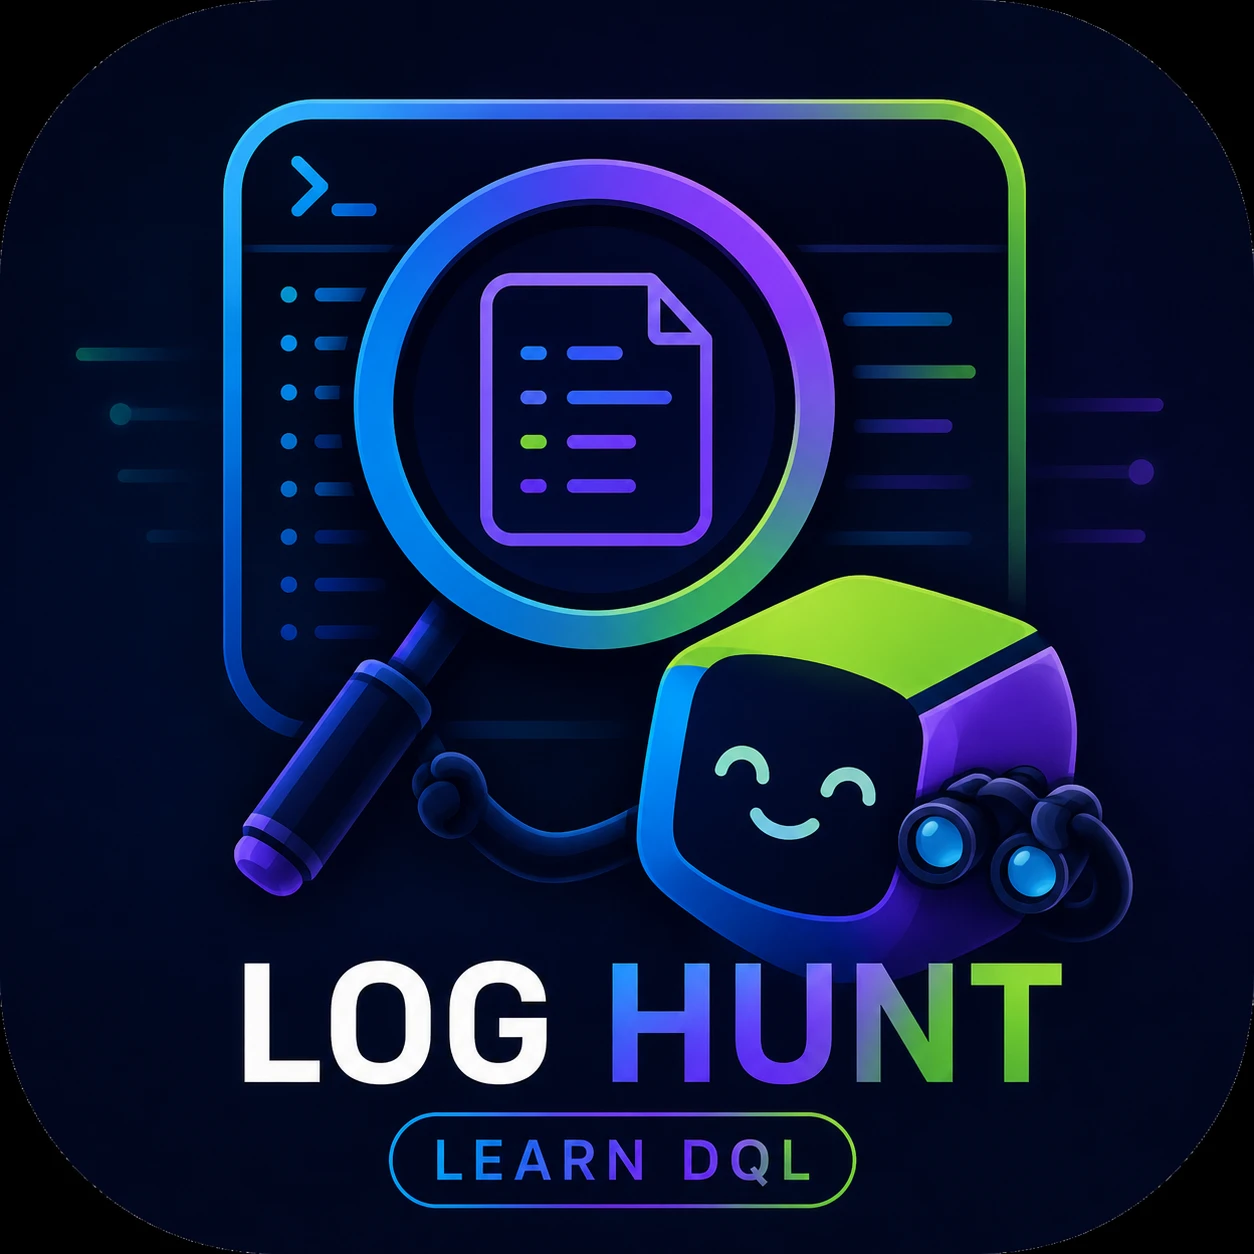
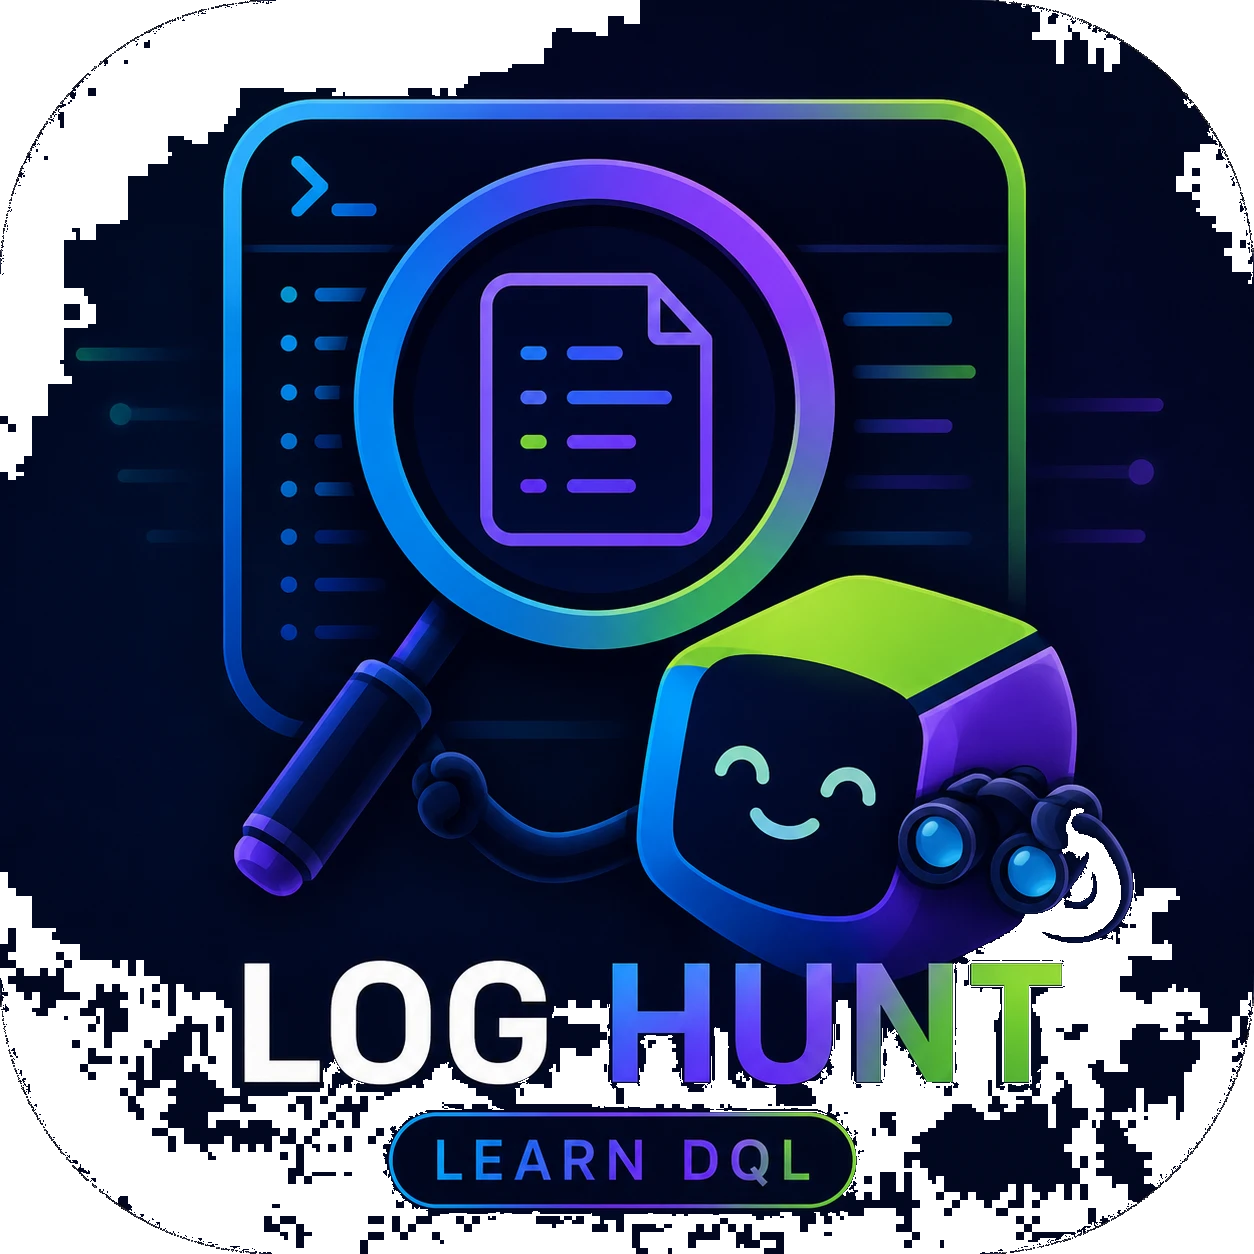
Fix homepage card images and layout polish
- Asset paths were absolute (/assets/...) which 404s under the dt-app
  serving sub-path; switched to relative ./assets/... matching the
  existing Dynatrace_Logo.svg convention
- Flood-filled the flat white/black corners of the three card images
  to transparency so they blend with the dark theme, and display them
  contain (uncropped) over the gradient backdrop
- Chip children rendered as multiple flex-gapped text nodes producing
  "2 lesson s completed"; collapsed all count chips to single strings
- Equal-height cards: Surfaces stretch to grid row height and each
  card's CTA is pinned to the bottom so the three buttons align

https://claude.ai/code/session_01MA3cxoJcrQHQ3axKASv3PV

Changed region(s): [[0.0, 0.6531, 1.0, 1.0], [0.0, 0.0, 0.5287, 0.4043], [0.8086, 0.0, 1.0, 0.2488]]

diff --git a/learn-dql/ui/app/pages/Home.tsx b/learn-dql/ui/app/pages/Home.tsx
@@ -13,14 +13,11 @@ import { ALL_SCENARIOS } from "../lib/dql";
 import { getProgress } from "../lib/progress";
 import { logHuntScenarios } from "../lib/dql/log-hunt-scenarios";
 
-// ─── Card image URLs (place the provided PNGs in learn-dql/ui/assets/) ──────
-// learn-dql/ui/assets/home-learn-dql.png  → the Dynatrace Learn DQL logo
-// learn-dql/ui/assets/home-sandbox.png    → the Sandbox illustration
-// learn-dql/ui/assets/home-log-hunt.png   → the Log Hunt robot illustration
-// When an image is missing the CSS gradient fallback is used automatically.
-const IMG_LEARN    = "/assets/home-learn-dql.png";
-const IMG_SANDBOX  = "/assets/home-sandbox.png";
-const IMG_LOG_HUNT = "/assets/home-log-hunt.png";
+// Asset paths are relative to the served index.html (dt-app convention —
+// same as ./assets/Dynatrace_Logo.svg elsewhere in the app).
+const IMG_LEARN    = "./assets/home-learn-dql.png";
+const IMG_SANDBOX  = "./assets/home-sandbox.png";
+const IMG_LOG_HUNT = "./assets/home-log-hunt.png";
 
 // ─── Gradient fallbacks (used while images haven't been placed yet) ──────────
 const GRAD_LEARN =
@@ -45,10 +42,10 @@ function CardImage({
     <div
       style={{
         width: "100%",
-        height: 220,
+        height: 240,
         backgroundImage: `url(${src}), ${fallbackGradient}`,
-        backgroundSize: "cover",
-        backgroundPosition: "center top",
+        backgroundSize: "contain, cover",
+        backgroundPosition: "center",
         backgroundRepeat: "no-repeat",
         borderRadius: "8px 8px 0 0",
         overflow: "hidden",
@@ -109,21 +106,23 @@ export const Home = () => {
       </TitleBar>
 
       <Flex flexDirection="column" padding={32} gap={0}>
-        <Grid gridTemplateColumns="repeat(3, 1fr)" gap={24} alignItems="start">
+        <Grid gridTemplateColumns="repeat(3, 1fr)" gap={24}>
 
           {/* ── Card 1: Learn DQL ── */}
-          <Surface>
-            <Flex flexDirection="column" gap={0}>
+          <Surface style={{ height: "100%" }}>
+            <Flex flexDirection="column" gap={0} style={{ height: "100%" }}>
               <CardImage src={IMG_LEARN} fallbackGradient={GRAD_LEARN} alt="Learn DQL" />
 
-              <Flex flexDirection="column" padding={24} gap={20}>
+              <Flex flexDirection="column" padding={24} gap={20} style={{ flexGrow: 1 }}>
                 <Flex flexDirection="column" gap={6}>
                   <Heading level={2} style={{ margin: 0 }}>Learn DQL</Heading>
                   <Paragraph style={{ margin: 0 }}>
                     Step-by-step guided lessons that take you from zero to confident with the Dynatrace Query Language. Pick a track based on where you are today.
                   </Paragraph>
                   {hasAnyProgress && (
-                    <Chip color="primary">{progress.completedCases.length} lesson{progress.completedCases.length !== 1 ? "s" : ""} completed</Chip>
+                    <Chip color="primary">
+                      {`${progress.completedCases.length} ${progress.completedCases.length === 1 ? "lesson" : "lessons"} completed`}
+                    </Chip>
                   )}
                 </Flex>
 
@@ -135,9 +134,7 @@ export const Home = () => {
                     <Flex flexDirection="column" padding={16} gap={8}>
                       <Flex justifyContent="space-between" alignItems="center">
                         <Strong>Onboarding</Strong>
-                        <Chip>
-                          {onboardingDone}/{onboardingScenarios.length}
-                        </Chip>
+                        <Chip>{`${onboardingDone} / ${onboardingScenarios.length}`}</Chip>
                       </Flex>
                       <Paragraph style={{ margin: 0 }}>
                         Brand new to DQL? Start here. Six bite-sized lessons walk you through the essential commands — <Strong>fetch</Strong>, <Strong>filter</Strong>, <Strong>summarize</Strong>, <Strong>sort</Strong> — so you can read and write basic queries with confidence before moving on.
@@ -162,9 +159,7 @@ export const Home = () => {
                     <Flex flexDirection="column" padding={16} gap={8}>
                       <Flex justifyContent="space-between" alignItems="center">
                         <Strong>DQL Lessons</Strong>
-                        <Chip>
-                          {dqlDone}/{dqlScenarios.length}
-                        </Chip>
+                        <Chip>{`${dqlDone} / ${dqlScenarios.length}`}</Chip>
                       </Flex>
                       <Paragraph style={{ margin: 0 }}>
                         Already know the basics? Go deeper. These lessons cover parsing, aggregation, join, append, log analysis, and advanced patterns — each tied to a real-world scenario you'd encounter in a Dynatrace environment.
@@ -181,9 +176,9 @@ export const Home = () => {
                   </Surface>
                 </Flex>
 
-                {/* ── Continue / Resume button ── */}
+                {/* ── Continue / Resume button — pinned to card bottom ── */}
                 {resumeScenario ? (
-                  <Flex flexDirection="column" gap={8}>
+                  <Flex flexDirection="column" gap={8} style={{ marginTop: "auto" }}>
                     <Flex alignItems="center" gap={8}>
                       <Paragraph style={{ margin: 0 }}>
                         Up next: <Strong>{resumeScenario.title}</Strong>
@@ -198,7 +193,7 @@ export const Home = () => {
                     </Button>
                   </Flex>
                 ) : (
-                  <Button variant="accent" as={RouterLink} to="/learn">
+                  <Button variant="accent" as={RouterLink} to="/learn" style={{ marginTop: "auto" }}>
                     Review all lessons →
                   </Button>
                 )}
@@ -207,11 +202,11 @@ export const Home = () => {
           </Surface>
 
           {/* ── Card 2: Sandbox ── */}
-          <Surface>
-            <Flex flexDirection="column" gap={0}>
+          <Surface style={{ height: "100%" }}>
+            <Flex flexDirection="column" gap={0} style={{ height: "100%" }}>
               <CardImage src={IMG_SANDBOX} fallbackGradient={GRAD_SANDBOX} alt="Sandbox" />
 
-              <Flex flexDirection="column" padding={24} gap={20}>
+              <Flex flexDirection="column" padding={24} gap={20} style={{ flexGrow: 1 }}>
                 <Flex flexDirection="column" gap={6}>
                   <Heading level={2} style={{ margin: 0 }}>Sandbox</Heading>
                   <Paragraph style={{ margin: 0 }}>
@@ -239,7 +234,7 @@ export const Home = () => {
                   </Surface>
                 </Flex>
 
-                <Button variant="accent" as={RouterLink} to="/sandbox">
+                <Button variant="accent" as={RouterLink} to="/sandbox" style={{ marginTop: "auto" }}>
                   Open Sandbox →
                 </Button>
               </Flex>
@@ -247,11 +242,11 @@ export const Home = () => {
           </Surface>
 
           {/* ── Card 3: Log Hunt ── */}
-          <Surface>
-            <Flex flexDirection="column" gap={0}>
+          <Surface style={{ height: "100%" }}>
+            <Flex flexDirection="column" gap={0} style={{ height: "100%" }}>
               <CardImage src={IMG_LOG_HUNT} fallbackGradient={GRAD_LOG_HUNT} alt="Log Hunt" />
 
-              <Flex flexDirection="column" padding={24} gap={20}>
+              <Flex flexDirection="column" padding={24} gap={20} style={{ flexGrow: 1 }}>
                 <Flex flexDirection="column" gap={6}>
                   <Heading level={2} style={{ margin: 0 }}>Log Hunt</Heading>
                   <Flex gap={8} alignItems="center">
@@ -260,7 +255,7 @@ export const Home = () => {
                     </Paragraph>
                   </Flex>
                   {huntsDone > 0 && (
-                    <Chip color="success">{huntsDone} / {logHuntScenarios.length} cases closed</Chip>
+                    <Chip color="success">{`${huntsDone} / ${logHuntScenarios.length} cases closed`}</Chip>
                   )}
                 </Flex>
 
@@ -286,7 +281,7 @@ export const Home = () => {
                   </Surface>
                 </Flex>
 
-                <Button variant="accent" as={RouterLink} to="/log-hunt">
+                <Button variant="accent" as={RouterLink} to="/log-hunt" style={{ marginTop: "auto" }}>
                   Browse hunts →
                 </Button>
               </Flex>